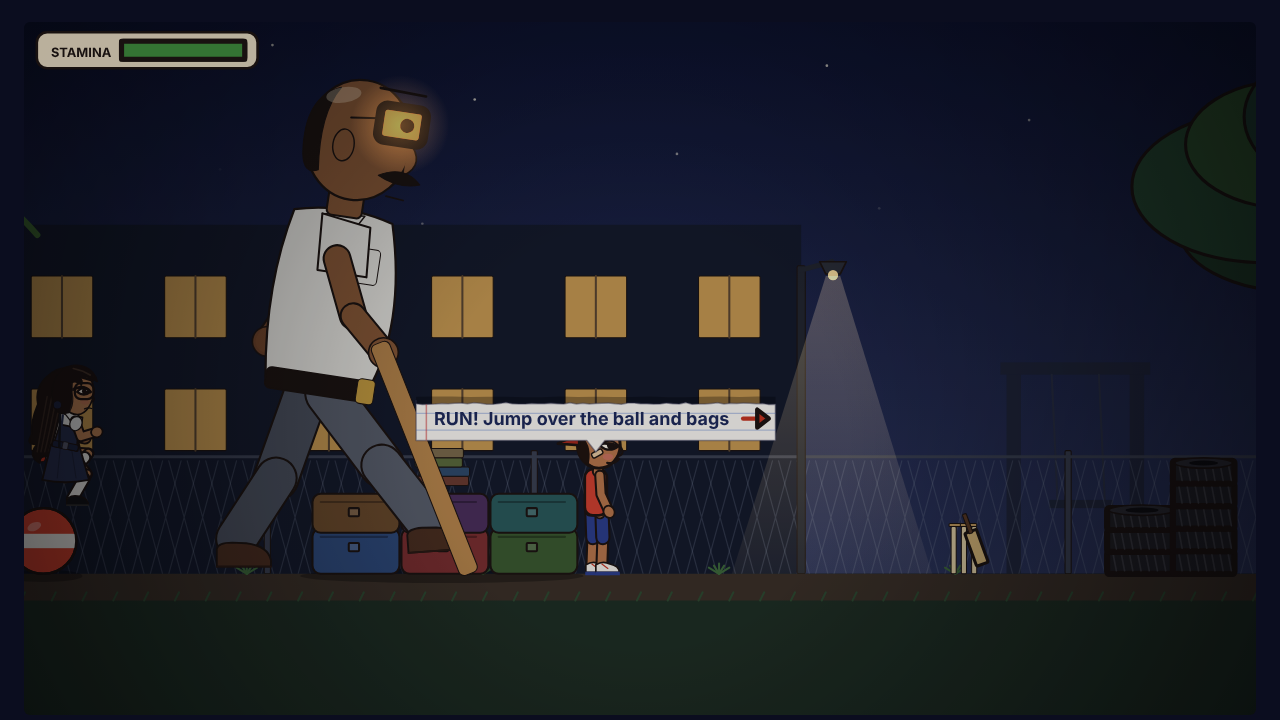
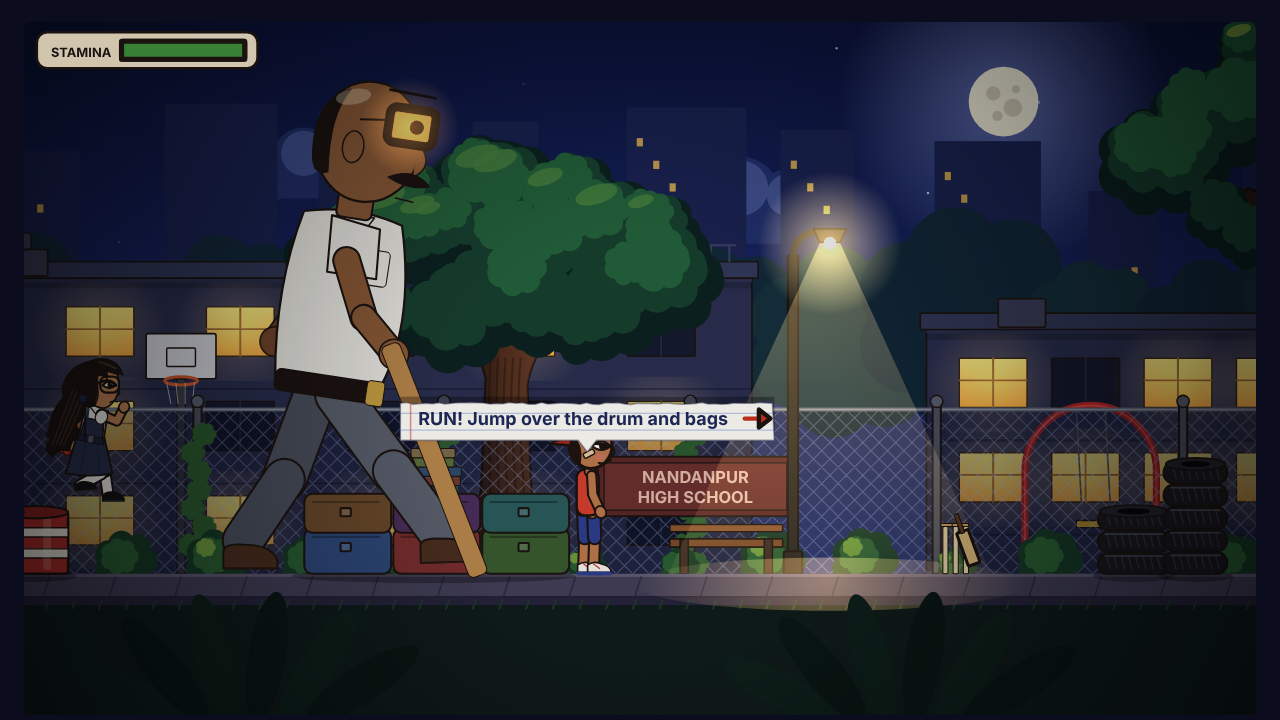
Night schoolyard redrawn from reference; softer interaction glow
- Schoolyard: moonlit sky, lit school blocks, chain-link fence, street
  lamps with light cones, cel-shaded yard tree, hoop, swing, benches
- Football obstacle is now an oil drum; tyres and brick ledge restyled
- Interaction glow is a halo around the object, not a white wash

Claude-Session: https://claude.ai/code/session_011sGuDQJunPbrnJRzfH8xkJ

diff --git a/index.html b/index.html
@@ -653,7 +653,7 @@ function goalNow() {
     if (V.phase === 'court') { const c = V.ch; if (!c || c.end || c.stage === 'catch') return null;
       if (c.stage === 'run2') return c.hwGot ? {bn: 'স্কুলের গেটে দৌড়াও!', en: 'Run to the school gate!', x: CT_GATE, k: ['Run']} : {bn: 'টায়ারে লাফিয়ে উঠে দেয়ালের খাতাটা নাও', en: 'Jump onto the tyres, then the wall: get your copy', x: 2340, k: ['Space']};
       if (c.stage === 'search' || c.stage === 'leave' || c.autoHide) return null;
-      return {bn: 'দৌড়াও! বাক্স-টায়ার লাফিয়ে পার হও', en: 'RUN! Jump over the ball and bags', x: CT_TREE, k: ['Run', 'Space']}; }
+      return {bn: 'দৌড়াও! ড্রাম আর ব্যাগ লাফিয়ে পার হও', en: 'RUN! Jump over the drum and bags', x: CT_TREE, k: ['Run', 'Space']}; }
     if (V.phase === 'stairs') return null;
     return G.shown.jhumpa ? {bn: 'বসে বসে ঝুম্পার পেছনে যাও; জানালায় আলো জ্বললে লুকাও', en: 'Crouch and follow Jhumpa. Hide when a window lights up', x: VER_JSPOTS[VER_JSPOTS.length - 1], k: ['Shift']} : {bn: 'বসে বসে বারান্দা ধরে এগোও', en: 'Crouch and sneak along the verandah', x: VER_JSPOTS[VER_JSPOTS.length - 1], k: ['Shift']};
   }
@@ -770,10 +770,14 @@ const GLOW_SHAPES = {   // the outline of each object, so the object itself glow
 function drawGoalGlow() {   // in world space: the thing he has to use glows softly, in its own shape, until he uses it
   const g = G.goal; if (!g || !g.glow || G.cs || G.dialog || P.hidden) return; const f = GLOW_SHAPES[g.glow]; if (!f) return;
   const p = 0.5 + 0.5 * Math.sin(G.t * 3.2);
+  // (v256) a soft halo AROUND the object only: the object itself keeps its own colours (just a faint warm tint and a soft rim)
   ctx.save(); ctx.globalCompositeOperation = 'lighter';
-  ctx.shadowColor = 'rgba(255,215,110,1)'; ctx.shadowBlur = 26 + 18 * p;   // (v255) brighter
-  ctx.beginPath(); f(); ctx.fillStyle = 'rgba(255,205,115,' + (0.3 + 0.2 * p) + ')'; ctx.fill(); ctx.fill();
-  ctx.shadowBlur = 0; ctx.beginPath(); f(); ctx.fillStyle = 'rgba(255,230,160,' + (0.14 + 0.12 * p) + ')'; ctx.fill(); ctx.lineWidth = 2; ctx.strokeStyle = 'rgba(255,235,170,' + (0.35 + 0.3 * p) + ')'; ctx.stroke();
+  ctx.beginPath(); ctx.rect(-1e5, -1e5, 2e5, 2e5); f(); ctx.clip('evenodd');   // everything except the object's own shape
+  const m = ctx.getTransform(), off = 20000; ctx.shadowColor = 'rgba(255,200,100,' + (0.75 + 0.25 * p) + ')'; ctx.shadowBlur = (18 + 14 * p) * Math.hypot(m.a, m.b); ctx.shadowOffsetX = off * m.a; ctx.shadowOffsetY = off * m.b;
+  ctx.translate(-off, 0); ctx.beginPath(); f(); ctx.fillStyle = '#000'; ctx.fill(); ctx.fill();   // only the blurred shadow lands, shifted back onto the object
+  ctx.restore();
+  ctx.save(); ctx.globalCompositeOperation = 'lighter';
+  ctx.beginPath(); f(); ctx.fillStyle = 'rgba(255,190,100,' + (0.05 + 0.05 * p) + ')'; ctx.fill(); ctx.lineWidth = 2; ctx.strokeStyle = 'rgba(255,215,140,' + (0.3 + 0.25 * p) + ')'; ctx.stroke();
   ctx.restore();
 }
 
@@ -5299,13 +5303,13 @@ const CT_HEDGES = [[1440, 1474]], CT_BUCKET = -9999;   // the low trip-hazard he
 const CT_ROLL = {a: 1120, b: 1400};
 // solid blocks: crates and raised brick ledges. Their tops are surfaces to land on; their sides are walls (jump them!)
 const CT_BLOCKS = [
-  {x0: 530, x1: 594, h: 64, k: 'ball'},                                  // a giant football left in the yard
+  {x0: 530, x1: 594, h: 64, k: 'drum'},                                  // a red-and-white oil drum (v256, from the user's yard reference)
   {x0: 820, x1: 1080, h: 78, k: 'bags', books: 950},                     // a heap of school bags the children dumped to play
   {x0: 1600, x1: 1664, h: 64, k: 'tyres'}, {x0: 1664, x1: 1720, h: 110, k: 'tyres'},   // old tyres they play with, stacked
   {x0: 2126, x1: 2190, h: 64, k: 'tyres'},   // right against the high wall: tyres first, then up onto the wall
   {x0: 2190, x1: 2440, h: 132, k: 'ledge', hw: 2340},
 ];
-const CT_LAMPS = [300, 1300];   // (the gate has its own wall lamp over the name plaque)
+const CT_LAMPS = [300, 1300, 2050];   // (the gate has its own wall lamp over the name plaque)
 const COURT_SURF = [{x0: -400, y0: VF, x1: CW + 400, y1: VF, floor: 1}, ...CT_BLOCKS.map(b => ({x0: b.x0, y0: VF - b.h, x1: b.x1, y1: VF - b.h, floor: 1}))];
 // the ground height under x (for Jhumpa and Mishti, who hop up onto crates and ledges as they run along)
 function ctGround(x) { let h = 0; for (const b of CT_BLOCKS) { if (x > b.x0 - 34 && x < b.x1 + 34) { const e = Math.min(1, Math.min(x - (b.x0 - 34), b.x1 + 34 - x) / 34); h = Math.max(h, b.h * Math.sin(e * Math.PI / 2) + (e < 1 ? Math.sin(e * Math.PI) * 26 : 0)); } } return VF - h; }
@@ -5550,37 +5554,158 @@ function ctGateArea(op) {
   box(wl, VF - 8, G0 - 46 - wl, 8, '#6A5E50', 1.6, 1); box(G0 + 206, VF - 8, 494, 8, '#6A5E50', 1.6, 1);
   for (let k = 0; k < 16; k++) { const lx = G0 - 520 + ((k * 89) % 1000), ly = VF + 4 + (k % 3) * 6; ctx.save(); ctx.translate(lx, ly); ctx.rotate(k * 0.9); ctx.beginPath(); ctx.ellipse(0, 0, 6, 2.6, 0, 0, 7); ctx.fillStyle = ['#6A5A2A', '#7A4A22', '#5A6A2A'][k % 3]; ctx.fill(); ctx.restore(); }
 }
-function drawCourt() {
-  const V = G.ver, C = V.ch, v = akView();
-  // night sky over the school field
-  const sg = ctx.createLinearGradient(0, v.T, 0, VF); sg.addColorStop(0, '#0C1230'); sg.addColorStop(1, '#2A3358'); ctx.fillStyle = sg; ctx.fillRect(v.L, v.T, v.R - v.L, VF - v.T);
-  for (let i = 0; i < 40; i++) { const sx = ((i * 197) % 3400) - 200, sy = 380 + (i * 53) % 260; circ(sx, sy, 1.3, 'rgba(255,250,230,' + (0.4 + 0.4 * Math.sin(G.t * 2 + i)) + ')', 0); }
-  circ(2300, 430, 30, '#F3EBD2', 0); circ(2312, 424, 28, '#2A3358', 0);
-  // the school buildings behind, a few windows still lit
-  ctx.fillStyle = '#141A2A'; ctx.fillRect(-400, 560, 1700, VF - 560); ctx.fillRect(1900, 600, 1300, VF - 600);
-  for (let x = -360; x < 1300; x += 130) for (const yy of [610, 720]) { const lit = ((x * 7 + yy) % 5) === 0; box(x, yy, 60, 60, lit ? '#C89A50' : '#2A2618', 1.4, 1); if (lit) { line(x + 30, yy, x + 30, yy + 60, '#5A4630', 2); } }
-  for (let x = 1960; x < 3100; x += 150) { const lit = (x % 4) === 0; box(x, 650, 64, 56, lit ? '#C89A50' : '#2A2618', 1.4, 1); }
-  // a small Shaheed Minar and the flag pole
-  ctx.fillStyle = '#20263A'; ctx.fillRect(1500, 700, 14, 200); ctx.fillRect(1620, 700, 14, 200); ctx.fillRect(1494, 694, 146, 12); line(1544, 706, 1546 + Math.sin(G.t * 1.2) * 4, 830, '#2A3044', 2); line(1590, 706, 1592 + Math.sin(G.t * 1.2) * 4, 830, '#2A3044', 2); ctx.fillRect(1538 + Math.sin(G.t * 1.2) * 4, 828, 62, 8);   // a swing in the dark yard
-  line(2200, 560, 2200, VF, '#2A2E3A', 4); box(2202, 560, 70, 44, '#1E5A3A', 1.4, 1); circ(2232, 582, 12, '#B83A2A', 0);
-  // background trees (different kinds and colours): a krishnachura in bloom, a coconut palm
+// ---- (v256) the schoolyard, redrawn from the user's night reference: a deep blue sky with soft clouds and a full moon, flat-roofed
+//      school blocks with warm lit windows, far trees and town blocks, a tall chain-link fence with creepers, curved street lamps with
+//      light cones, big cel-shaded trees with lamp-lit trunks, a basketball hoop, a red swing, benches, bins, and a paved footpath
+function ydR(n) { const q = Math.sin(n * 127.1 + 311.7) * 43758.5453; return q - Math.floor(q); }
+function ydBlob(x, y, r, col) {   // a scalloped leaf clump
+  ctx.fillStyle = col; ctx.beginPath(); ctx.moveTo(x + r * 0.72, y); ctx.arc(x, y, r * 0.72, 0, 7);
+  for (let k = 0; k < 7; k++) { const a = k * 0.8976, px = x + Math.cos(a) * r * 0.6, py = y + Math.sin(a) * r * 0.55; ctx.moveTo(px + r * 0.42, py); ctx.arc(px, py, r * 0.42, 0, 7); }
+  ctx.fill(); }
+function ydCanopy(cx, cy, rx, ry, seed, lit) {
+  const pts = []; for (let i = 0; i < 44; i++) { const a = ydR(seed + i) * 6.283, d = Math.sqrt(ydR(seed + i + 50)); pts.push([cx + Math.cos(a) * rx * d, cy + Math.sin(a) * ry * d, 24 + ydR(seed + i + 90) * 22]); }
+  pts.sort((p, q) => p[1] - q[1]);
+  for (const [x, y, r] of pts) ydBlob(x, y + 10, r * 1.3, '#0C2220');
+  for (const [x, y, r] of pts) ydBlob(x - 3, y, r, '#17402E');
+  for (const [x, y, r] of pts) if (y < cy + ry * 0.4) ydBlob(x - 8, y - 9, r * 0.72, '#24613A');
+  for (const [x, y, r] of pts) if (y < cy - ry * 0.2 && ydR(x + y) > 0.4) { ctx.beginPath(); ctx.ellipse(x - 10, y - r * 0.55, r * 0.5, r * 0.22, -0.3, 0, 7); ctx.fillStyle = lit ? 'rgba(150,186,74,.85)' : 'rgba(70,128,62,.85)'; ctx.fill(); }   // moonlit leaf tops
+}
+function ydTrunk(x, y0, w, lit) {   // a thick trunk with flared roots and two big limbs into the canopy
+  ctx.beginPath(); ctx.moveTo(x - w * 1.25, VF + 2); ctx.quadraticCurveTo(x - w * 0.55, VF - 24, x - w * 0.5, VF - 100);
+  ctx.lineTo(x - w * 0.42, y0 + 50); ctx.quadraticCurveTo(x - w * 0.6, y0 + 8, x - w * 2.3, y0 - 60); ctx.lineTo(x - w * 2.0, y0 - 76);
+  ctx.quadraticCurveTo(x - w * 0.6, y0 - 20, x - w * 0.18, y0 - 90); ctx.lineTo(x + w * 0.22, y0 - 90);
+  ctx.quadraticCurveTo(x + w * 0.5, y0 - 26, x + w * 2.1, y0 - 84); ctx.lineTo(x + w * 2.35, y0 - 66); ctx.quadraticCurveTo(x + w * 0.62, y0 + 6, x + w * 0.46, y0 + 56);
+  ctx.lineTo(x + w * 0.52, VF - 100); ctx.quadraticCurveTo(x + w * 0.58, VF - 24, x + w * 1.3, VF + 2); ctx.closePath();
+  fs('#3E261A', 2.4);
+  ctx.save(); ctx.clip();
+  const g = ctx.createLinearGradient(x - w * 0.6, 0, x + w * 0.7, 0); g.addColorStop(0, 'rgba(0,0,0,.3)'); g.addColorStop(0.45, 'rgba(120,64,34,.35)'); g.addColorStop(1, lit ? 'rgba(236,140,62,.8)' : 'rgba(150,90,54,.45)');
+  ctx.fillStyle = g; ctx.fillRect(x - w * 3, y0 - 100, w * 6, VF - y0 + 110);
+  for (let k = -2; k <= 2; k++) { ctx.beginPath(); ctx.moveTo(x + k * w * 0.17, VF - 6); ctx.bezierCurveTo(x + k * w * 0.2 + 6, VF - 120, x + k * w * 0.14 - 6, y0 + 120, x + k * w * 0.16, y0 + 30); ctx.strokeStyle = 'rgba(28,14,8,.4)'; ctx.lineWidth = 2; ctx.stroke(); }
+  ctx.restore(); }
+function ydCloud(x, y, s) {
+  ctx.fillStyle = '#22306A'; ctx.beginPath();
+  for (const [dx, dy, r] of [[-1.15, 0.15, 0.5], [-0.45, -0.25, 0.72], [0.4, -0.12, 0.62], [1.05, 0.2, 0.45]]) { ctx.moveTo(x + dx * s + r * s, y + dy * s); ctx.arc(x + dx * s, y + dy * s, r * s, 0, 7); }
+  ctx.rect(x - 1.5 * s, y + 0.1 * s, 3 * s, 0.5 * s); ctx.fill();
+  ctx.fillStyle = 'rgba(120,140,210,.35)'; ctx.beginPath(); ctx.moveTo(x - 0.45 * s + 0.5 * s, y - 0.4 * s); ctx.arc(x - 0.45 * s, y - 0.4 * s, 0.5 * s, 0, 7); ctx.moveTo(x + 0.4 * s + 0.38 * s, y - 0.28 * s); ctx.arc(x + 0.4 * s, y - 0.28 * s, 0.38 * s, 0, 7); ctx.fill(); }
+function ydWin(x, y, w, h, lit) {
+  if (lit) { const g = ctx.createLinearGradient(0, y, 0, y + h); g.addColorStop(0, '#FFD878'); g.addColorStop(1, '#E09A3A'); box(x, y, w, h, g, 1, 1.4);
+    line(x + w / 2, y, x + w / 2, y + h, '#7A5428', 2); line(x, y + h * 0.45, x + w, y + h * 0.45, '#7A5428', 1.6);
+    ctx.save(); ctx.globalCompositeOperation = 'lighter'; const r = ctx.createRadialGradient(x + w / 2, y + h / 2, 2, x + w / 2, y + h / 2, w); r.addColorStop(0, 'rgba(255,190,90,.22)'); r.addColorStop(1, 'rgba(255,190,90,0)'); ctx.fillStyle = r; ctx.fillRect(x - w / 2, y - h / 2, w * 2, h * 2); ctx.restore(); }
+  else { box(x, y, w, h, '#161A2E', 1, 1.4); line(x + w / 2, y, x + w / 2, y + h, '#262C44', 1.6); } }
+function ydBlock(x0, x1, roof, seed, cols) {   // a flat-roofed school block, its windows half lit
+  box(x0, roof, x1 - x0, VF - roof + 4, '#2A2F4E', 0, 1.6); ctx.fillStyle = '#353B60'; ctx.fillRect(x0, roof, x1 - x0, 6);
+  box(x0 - 6, roof - 14, x1 - x0 + 12, 16, '#323858', 1, 1.6);   // the parapet
+  ctx.fillStyle = 'rgba(0,0,0,.18)'; ctx.fillRect(x0, roof + 2, x1 - x0, 10);
+  const bw = 66, gap = (x1 - x0 - 40) / cols;
+  for (let r = 0; r < 3; r++) for (let c = 0; c < cols; c++) { const y = roof + 30 + r * 92; if (y + 50 > VF) continue; ydWin(x0 + 20 + c * gap + (gap - bw) / 2, y, bw, 48, ydR(seed + r * 17 + c) > 0.42); }
+  for (let r = 1; r < 3; r++) line(x0, roof + 18 + r * 92, x1, roof + 18 + r * 92, 'rgba(10,12,24,.35)', 2); }
+function ydBack(v) {
+  // sky: deep blue, lighter toward the horizon
+  const sg = ctx.createLinearGradient(0, v.T, 0, VF); sg.addColorStop(0, '#0A1238'); sg.addColorStop(0.6, '#1A2766'); sg.addColorStop(1, '#2C3C84'); ctx.fillStyle = sg; ctx.fillRect(v.L, v.T, v.R - v.L, VF - v.T);
+  for (let i = 0; i < 50; i++) { const sx = ((i * 197) % 3600) - 300 + v.cx * 0.4, sy = 330 + (i * 53) % 260; circ(sx, sy, 1.2, 'rgba(255,250,230,' + (0.35 + 0.35 * Math.sin(G.t * 2 + i)) + ')', 0); }
+  // the full moon (drifts slowly with the view) with its halo
+  { const mx = v.cx + 420 - 0.12 * (v.cx - 600), my = 440;
+    ctx.save(); ctx.globalCompositeOperation = 'lighter'; const h = ctx.createRadialGradient(mx, my, 20, mx, my, 160); h.addColorStop(0, 'rgba(200,210,255,.35)'); h.addColorStop(1, 'rgba(200,210,255,0)'); ctx.fillStyle = h; ctx.fillRect(mx - 160, my - 160, 320, 320); ctx.restore();
+    circ(mx, my, 34, '#F4F0DC', 0); for (const [dx, dy, r] of [[-10, -8, 7], [9, 6, 9], [12, -12, 4], [-6, 14, 5]]) circ(mx + dx, my + dy, r, 'rgba(170,165,140,.45)', 0); }
+  for (let i = 0; i < 9; i++) ydCloud(i * 520 - 400 + v.cx * 0.55 + (i % 2) * 90, 470 + (i % 3) * 38, 34 + (i % 3) * 10);
+  // far town blocks and the tree line
+  for (let i = 0; i < 24; i++) { const x = i * 150 - 500 + v.cx * 0.25, h = 90 + ydR(i) * 110, wd = 60 + ydR(i + 9) * 60; ctx.fillStyle = '#1A2350'; ctx.fillRect(x, 640 - h, wd, h + 40);
+    for (let k = 0; k < 3; k++) if (ydR(i * 7 + k) > 0.6) { ctx.fillStyle = '#C8A050'; ctx.fillRect(x + 10 + k * 16, 650 - h + 20 + k * 22, 6, 8); } }
+  for (let i = 0; i < 30; i++) { const x = i * 120 - 500 + v.cx * 0.15; ydBlob(x, 650 + (i % 3) * 12, 70 + (i % 4) * 14, i % 2 ? '#122838' : '#15303A'); }
+  // the school blocks with rooftop tanks and a stair hut
+  ydBlock(-420, 1260, 610, 3, 12);
+  box(60, 560, 170, 50, '#2C3254', 0, 1.6); box(54, 550, 182, 12, '#353B60', 1, 1.6); ydWin(120, 574, 46, 28, 1);
+  box(520, 584, 54, 26, '#3A3E58', 2, 1.6); box(536, 568, 22, 16, '#3A3E58', 2, 1.6);   // water tank
+  for (let x = 860; x < 1240; x += 18) line(x, 596, x, 580, '#3A4060', 2); line(856, 580, 1244, 580, '#3A4060', 2);   // roof railing
+  ydBlock(1430, 1830, 660, 41, 4); box(1500, 632, 46, 28, '#3A3E58', 2, 1.6);
+  ydBlock(1960, 2300, 630, 77, 4);
+  // the flag on its pole
+  line(2200, 560, 2200, 640, '#2A2E3A', 4); box(2202, 560, 70, 44, '#1E5A3A', 1.4, 1); circ(2232, 582, 12, '#B83A2A', 0);
+  // the krishnachura in bloom by the gate
   { const kx = 2470; box(kx - 14, 640, 28, VF - 640, '#3A2C22', 2, 3); for (const [dx, dy, w2] of [[-60, -10, 70], [40, -24, 80], [-10, -50, 90], [70, 20, 60], [-80, 30, 60]]) { ctx.beginPath(); ctx.ellipse(kx + dx, 630 + dy, w2, 34, 0, 0, 7); fs('#2E4A2A', 0); }
     for (let n = 0; n < 34; n++) { const a = n * 2.4, r = 20 + (n * 13) % 80; circ(kx + Math.cos(a) * r * 1.4, 615 + Math.sin(a) * r * 0.5, 6 + (n % 3), n % 2 ? '#C8461E' : '#E0602A', 0); } }
-  { const px = 380; ctx.beginPath(); ctx.moveTo(px - 8, VF); ctx.quadraticCurveTo(px + 20, 760, px + 46, 520); ctx.strokeStyle = '#4A3A2A'; ctx.lineWidth = 11; ctx.stroke();
-    for (let n = 0; n < 7; n++) { const a = -Math.PI + n * 0.52; ctx.beginPath(); ctx.moveTo(px + 46, 520); ctx.quadraticCurveTo(px + 46 + Math.cos(a) * 70, 500 + Math.sin(a) * 30, px + 46 + Math.cos(a) * 130, 540 + Math.abs(Math.cos(a)) * 30); ctx.strokeStyle = '#3E6A30'; ctx.lineWidth = 6; ctx.stroke(); } }
-  // a chain-link fence along the yard
-  ctx.save(); ctx.strokeStyle = 'rgba(120,130,150,.28)'; ctx.lineWidth = 1.2;
-  for (let x = Math.floor(v.L / 18) * 18; x < Math.min(v.R, CT_GATE - 400); x += 18) { ctx.beginPath(); ctx.moveTo(x, 790); ctx.lineTo(x + 30, VF); ctx.moveTo(x + 30, 790); ctx.lineTo(x, VF); ctx.stroke(); }
-  ctx.restore(); for (let x = Math.floor(v.L / 260) * 260; x < Math.min(v.R, CT_GATE - 400); x += 260) box(x - 3, 780, 6, VF - 780, '#3A4050', 1.2, 1); line(Math.max(v.L, -400), 786, Math.min(v.R, CT_GATE - 400), 786, '#3A4050', 3);
+  // background trees inside the yard (behind the fence)
+  ydTrunk(-90, 640, 60, false); ydCanopy(-80, 520, 230, 100, 3, 0);
+  ydTrunk(1020, 660, 46, false); ydCanopy(1020, 580, 170, 80, 7, 0);
+  // a basketball hoop and a red swing in the yard
+  box(700, 690, 8, VF - 690, '#3A3E4A', 1.4, 1); box(670, 666, 68, 44, '#D8DAE0', 2, 1.6); box(690, 680, 28, 18, 'rgba(0,0,0,0)', 1, 1.4); ctx.beginPath(); ctx.ellipse(704, 712, 16, 4, 0, 0, 7); ctx.strokeStyle = '#D0582A'; ctx.lineWidth = 3; ctx.stroke();
+  for (let k = 0; k < 4; k++) line(690 + k * 9, 714, 694 + k * 7, 734, 'rgba(230,230,230,.6)', 1);
+  { const sx = 1590, sw = Math.sin(G.t * 1.3) * 6; ctx.beginPath(); ctx.moveTo(sx - 64, VF); ctx.lineTo(sx - 64, 800); ctx.arc(sx, 800, 64, Math.PI, 0); ctx.lineTo(sx + 64, VF); ctx.strokeStyle = '#B8262A'; ctx.lineWidth = 7; ctx.stroke(); ctx.strokeStyle = '#E04A3A'; ctx.lineWidth = 2; ctx.stroke();
+    line(sx - 14, 740, sx - 14 + sw, 850, '#5A5A60', 1.6); line(sx + 14, 740, sx + 14 + sw, 850, '#5A5A60', 1.6); box(sx - 20 + sw, 848, 40, 7, '#E0B030', 1, 1.4); }
+  // the tall chain-link fence: posts with caps, a top rail, a diamond mesh, creepers
+  const fx1 = Math.min(v.R, CT_GATE - 556), FT = 740;
+  ctx.fillStyle = 'rgba(8,12,30,.28)'; ctx.fillRect(Math.max(v.L, -500), FT, fx1 - Math.max(v.L, -500), VF - FT);
+  ctx.save(); ctx.beginPath(); ctx.rect(Math.max(v.L, -500), FT, fx1 - Math.max(v.L, -500), VF - FT); ctx.clip();
+  ctx.strokeStyle = 'rgba(150,165,205,.34)'; ctx.lineWidth = 1.2; ctx.beginPath();
+  for (let x = Math.floor(v.L / 16) * 16 - 200; x < fx1 + 200; x += 16) { ctx.moveTo(x, FT); ctx.lineTo(x + 160, VF); ctx.moveTo(x + 160, FT); ctx.lineTo(x, VF); }
+  ctx.stroke(); ctx.restore();
+  line(Math.max(v.L, -500), FT, fx1, FT, '#5A6070', 4); line(Math.max(v.L, -500), FT, fx1, FT, '#8A90A0', 1.4);
+  for (let x = Math.floor(v.L / 240) * 240; x < fx1; x += 240) { box(x - 4, FT - 6, 8, VF - FT + 6, '#4A5060', 1.4, 2); circ(x, FT - 8, 6, '#5A6070', 1.4);
+    if (ydR(x) > 0.45) { ctx.strokeStyle = '#2E5A30'; ctx.lineWidth = 2.4; ctx.beginPath(); ctx.moveTo(x, VF); for (let y = VF; y > FT + 10; y -= 14) ctx.lineTo(x + Math.sin(y * 0.2) * 5, y); ctx.stroke(); for (let y = VF - 10; y > FT + 16; y -= 18) ydBlob(x + Math.sin(y * 0.2) * 7, y, 12, y % 36 ? '#2C5A2E' : '#4A8A3A'); } }
+  // the school's name board on the fence
+  { const bx = 1110, by = 786; box(bx, by, 190, 58, '#5A2626', 2, 2); box(bx + 6, by + 6, 178, 46, '#6A302C', 1, 1.2);
+    if (LANG === 'bn') text('নন্দনপুর উচ্চ বিদ্যালয়', bx + 95, by + 36, 19, '#E0B8A8', 700, 'center');
+    else { text('NANDANPUR', bx + 95, by + 26, 16, '#E0B8A8', 700, 'center'); text('HIGH SCHOOL', bx + 95, by + 45, 16, '#E0B8A8', 700, 'center'); } }
+  // bushes and grass along the foot of the fence
+  for (let x = Math.floor(v.L / 90) * 90; x < fx1; x += 90) { const r = 18 + ydR(x) * 18; ydBlob(x + 20, VF - r * 0.4, r, '#173A26'); ydBlob(x + 14, VF - r * 0.55, r * 0.6, '#2A5E32'); if (ydR(x + 5) > 0.5) ydBlob(x + 8, VF - r * 0.8, r * 0.3, '#6E9A3E'); }
+  // benches and a green bin on the footpath
+  for (const bx of [1180, 2000]) { box(bx, VF - 34, 110, 8, '#7A4A2A', 1.4, 1.6); box(bx, VF - 48, 110, 7, '#8A5630', 1.4, 1.6); for (const lx of [bx + 10, bx + 92]) box(lx, VF - 34, 8, 34, '#3A2A20', 1, 1.4); }
+  { const gx = 1790; box(gx - 18, VF - 50, 36, 50, '#2E6A3A', 3, 2); box(gx - 21, VF - 54, 42, 8, '#3A7A44', 2, 1.6); line(gx - 10, VF - 40, gx - 10, VF - 6, 'rgba(0,0,0,.25)', 2); }
+}
+function ydLamp(lx) {   // a tall street lamp with a curved arm and a cone of warm light
+  const top = 590;
+  box(lx - 5, top, 10, VF - top, '#2A2620', 1.6, 2); box(lx - 9, VF - 22, 18, 22, '#2A2620', 1.6, 2);
+  ctx.beginPath(); ctx.moveTo(lx, top + 4); ctx.quadraticCurveTo(lx, top - 26, lx + 34, top - 24); ctx.strokeStyle = '#2A2620'; ctx.lineWidth = 6; ctx.stroke();
+  ctx.beginPath(); ctx.moveTo(lx + 20, top - 26); ctx.lineTo(lx + 52, top - 26); ctx.lineTo(lx + 46, top - 13); ctx.lineTo(lx + 26, top - 13); ctx.closePath(); fs('#3A342C', 1.6); circ(lx + 36, top - 12, 6, '#FFF0B8', 0);
+  ctx.save(); ctx.globalCompositeOperation = 'lighter';
+  const h = ctx.createRadialGradient(lx + 36, top - 12, 3, lx + 36, top - 12, 70); h.addColorStop(0, 'rgba(255,214,130,.75)'); h.addColorStop(1, 'rgba(255,214,130,0)'); ctx.fillStyle = h; ctx.fillRect(lx - 40, top - 90, 160, 160);
+  const g = ctx.createLinearGradient(0, top - 12, 0, VF); g.addColorStop(0, 'rgba(255,206,120,.34)'); g.addColorStop(1, 'rgba(255,206,120,.06)'); ctx.fillStyle = g;
+  ctx.beginPath(); ctx.moveTo(lx + 26, top - 12); ctx.lineTo(lx + 46, top - 12); ctx.lineTo(lx + 196, VF + 6); ctx.lineTo(lx - 124, VF + 6); ctx.closePath(); ctx.fill(); ctx.restore(); }
+function ydGround(v) {   // a paved footpath with a warm-lit edge, a curb and a dark grass verge
+  ctx.fillStyle = '#423F56'; ctx.fillRect(v.L, VF, v.R - v.L, 22); ctx.fillStyle = '#5E5A72'; ctx.fillRect(v.L, VF, v.R - v.L, 3);
+  for (let x = Math.floor(v.L / 64) * 64; x < v.R; x += 64) line(x, VF + 3, x - 6, VF + 22, 'rgba(20,18,30,.45)', 1.4);
+  ctx.fillStyle = '#26243A'; ctx.fillRect(v.L, VF + 22, v.R - v.L, 9); ctx.fillStyle = '#0F1C1A'; ctx.fillRect(v.L, VF + 31, v.R - v.L, 300);
+  for (let x = Math.floor(v.L / 26) * 26; x < v.R; x += 26) line(x, VF + 34, x + 3, VF + 26, '#1E3A2A', 2);
+  ctx.save(); ctx.globalCompositeOperation = 'lighter';
+  for (const lx of CT_LAMPS) { const g = ctx.createRadialGradient(lx + 36, VF + 6, 4, lx + 36, VF + 6, 190); g.addColorStop(0, 'rgba(255,196,110,.42)'); g.addColorStop(1, 'rgba(255,196,110,0)'); ctx.fillStyle = g; ctx.beginPath(); ctx.ellipse(lx + 36, VF + 10, 190, 26, 0, 0, 7); ctx.fill(); }
+  ctx.restore(); }
+function ydDrum(b) {   // a red-and-white striped oil drum
+  const x = b.x0, w = b.x1 - b.x0, top = VF - b.h;
+  ctx.fillStyle = 'rgba(0,0,0,.3)'; ctx.beginPath(); ctx.ellipse(x + w / 2, VF + 2, w / 2 + 8, 6, 0, 0, 7); ctx.fill();
+  box(x, top + 4, w, b.h - 4, '#B02E28', 3, 2.4);
+  for (const f of [0.3, 0.62]) box(x, top + b.h * f, w, b.h * 0.14, '#ECE6DA', 0, 1.4);
+  ctx.fillStyle = 'rgba(255,255,255,.18)'; ctx.fillRect(x + w * 0.62, top + 6, w * 0.12, b.h - 10); ctx.fillStyle = 'rgba(0,0,0,.2)'; ctx.fillRect(x + 3, top + 6, w * 0.14, b.h - 10);
+  ctx.beginPath(); ctx.ellipse(x + w / 2, top + 4, w / 2, 6, 0, 0, 7); fs('#8A2420', 2); circ(x + w * 0.3, top + 4, 3, '#5A1A16', 0); }
+function ydTyres(b) {   // old tyres stacked up, rounded black rubber with a worn tread and a sheen
+  const w2 = b.x1 - b.x0, cx2 = (b.x0 + b.x1) / 2, n = Math.max(1, Math.round(b.h / 22)), th = b.h / n;
+  ctx.fillStyle = 'rgba(0,0,0,.3)'; ctx.beginPath(); ctx.ellipse(cx2, VF + 2, w2 / 2 + 8, 6, 0, 0, 7); ctx.fill();
+  for (let k = 0; k < n; k++) { const y0 = VF - (k + 1) * th; box(b.x0 - 3, y0 + 1, w2 + 6, th - 1, '#1A1A20', th / 2.2, 2);
+    for (let t = b.x0 + 6; t < b.x1 - 2; t += 7) line(t, y0 + 5, t + 3, y0 + th - 5, '#2E2E36', 1.6);
+    line(b.x0 + 4, y0 + 4, b.x1 - 4, y0 + 4, 'rgba(150,150,170,.35)', 1.6); }
+  ctx.beginPath(); ctx.ellipse(cx2, VF - b.h + 3, w2 / 2 + 1, 6, 0, 0, 7); fs('#24242C', 1.6); ctx.beginPath(); ctx.ellipse(cx2, VF - b.h + 3, w2 / 4, 3, 0, 0, 7); ctx.fillStyle = '#08080A'; ctx.fill(); }
+function ydLedge(b) {   // a brick wall with a concrete coping, a taped notice and creepers
+  const top = VF - b.h, w2 = b.x1 - b.x0;
+  box(b.x0, top, w2, b.h, '#6A4842', 1, 2.4);
+  ctx.save(); rr(b.x0, top, w2, b.h, 1); ctx.clip();
+  for (let r = 0, y = top + 4; y < VF; y += 14, r++) { line(b.x0, y, b.x1, y, 'rgba(40,24,22,.45)', 1.2); for (let x = b.x0 + (r % 2 ? 14 : 0); x < b.x1; x += 28) { line(x, y, x, y + 14, 'rgba(40,24,22,.4)', 1.2); if (ydR(x * 1.3 + y) > 0.75) { ctx.fillStyle = 'rgba(140,90,80,.35)'; ctx.fillRect(x + 2, y + 2, 24, 10); } } }
+  const g = ctx.createLinearGradient(b.x0, 0, b.x1, 0); g.addColorStop(0, 'rgba(255,190,110,.18)'); g.addColorStop(1, 'rgba(0,0,0,.25)'); ctx.fillStyle = g; ctx.fillRect(b.x0, top, w2, b.h);
+  ctx.restore();
+  box(b.x0 - 6, top - 8, w2 + 12, 11, '#8A7E78', 1, 2);
+  ctx.save(); ctx.translate(b.x0 + 70, top + 50); ctx.rotate(-0.06); box(-22, -28, 44, 56, '#E2DCCA', 1, 1.4); box(-7, -32, 14, 7, 'rgba(230,220,180,.75)', 0, 0); for (let k = 0; k < 5; k++) line(-15, -16 + k * 9, 15 - (k % 2) * 8, -16 + k * 9, '#8A8478', 1.4); ctx.restore();
+  ctx.strokeStyle = '#2E5A30'; ctx.lineWidth = 2.2; ctx.beginPath(); ctx.moveTo(b.x1 - 30, top - 4); ctx.bezierCurveTo(b.x1 - 50, top + 40, b.x1 - 20, top + 70, b.x1 - 40, top + 110); ctx.stroke();
+  for (let k = 0; k < 7; k++) ydBlob(b.x1 - 34 - Math.sin(k) * 10, top + 4 + k * 15, 9, k % 2 ? '#2C5A2E' : '#4A8A3A');
+  for (let k = 0; k < 3; k++) line(b.x0 + 30 + k * 6, top - 8, b.x0 + 28 + k * 9, top - 20, '#3E6A3A', 2.2); }
+function ydFront() {   // dark foreground leaves along the bottom edge (below the footpath, never over the players)
+  const v = akView();
+  for (let x = Math.floor(v.L / 640) * 640 + 120; x < v.R + 200; x += 640) { for (let k = 0; k < 6; k++) { ctx.save(); ctx.translate(x + k * 26 - 60, VF + 140); ctx.rotate(-1.1 + k * 0.42); ctx.beginPath(); ctx.ellipse(0, -60, 18, 64, 0, 0, 7); ctx.fillStyle = k % 2 ? '#0A1814' : '#0E201A'; ctx.fill(); ctx.restore(); } }
+}
+function drawCourt() {
+  const V = G.ver, C = V.ch, v = akView();
+  ydBack(v);
   const op = C && C.end && C.end.open ? Math.min(1, C.end.open) : 0;
   ctGateArea(op);
-  // lamp posts with warm pools of light
-  for (const lx of CT_LAMPS) { box(lx - 4, 600, 8, VF - 600, '#22262E', 1.6, 1); line(lx, 604, lx + 30, 596, '#22262E', 5); ctx.beginPath(); ctx.moveTo(lx + 18, 596); ctx.lineTo(lx + 44, 596); ctx.lineTo(lx + 38, 608); ctx.lineTo(lx + 24, 608); ctx.closePath(); fs('#2A2E36', 1.6); circ(lx + 31, 609, 5, '#FFE2A0', 0);
-    ctx.save(); ctx.globalCompositeOperation = 'lighter'; const g = ctx.createLinearGradient(0, 610, 0, VF); g.addColorStop(0, 'rgba(255,214,140,.28)'); g.addColorStop(1, 'rgba(255,214,140,.06)'); ctx.fillStyle = g; ctx.beginPath(); ctx.moveTo(lx + 24, 610); ctx.lineTo(lx + 38, 610); ctx.lineTo(lx + 130, VF + 8); ctx.lineTo(lx - 70, VF + 8); ctx.closePath(); ctx.fill(); ctx.restore(); }
-  // the ground: dark grass with a beaten earth path, little weeds
-  ctx.fillStyle = '#1E2E22'; ctx.fillRect(v.L, VF, v.R - v.L, 200); ctx.fillStyle = '#3A3026'; ctx.fillRect(v.L, VF, v.R - v.L, 26);
-  for (let x = Math.floor(v.L / 30) * 30; x < v.R; x += 30) line(x, VF + 26, x + 4, VF + 18, '#2E4A30', 2);
-  for (let x = Math.floor(v.L / 230) * 230 + 70; x < v.R; x += 230) { for (let k = -2; k <= 2; k++) line(x, VF, x + k * 5, VF - 10 - Math.abs(k) * -2, '#3E6A3A', 2); }
+  for (const lx of CT_LAMPS) ydLamp(lx);
+  ydGround(v);
   // hedge and bucket
   for (const [a, b] of CT_HEDGES) {   // cricket stumps with the bails on, and a bat leaning against them
     for (let k = 0; k < 3; k++) box(a + 6 + k * 10, VF - 46, 5, 46, '#E8D6A8', 1.4, 1); box(a + 4, VF - 49, 16, 3, '#C8A060', 1, 1); box(a + 15, VF - 49, 16, 3, '#C8A060', 1, 1);
@@ -5589,21 +5714,17 @@ function drawCourt() {
   // crates and raised brick ledges (with stacks of old books on them, a tuft of grass), and the homework copy glowing on the high one
   for (const b of CT_BLOCKS) {
     const top = VF - b.h, w2 = b.x1 - b.x0;
-    if (b.k === 'ball') {   // a giant red-and-white football, a seam and a patch
+    if (b.k === 'drum') ydDrum(b);
+    else if (b.k === 'ball') {
       const cx2 = (b.x0 + b.x1) / 2, r = b.h / 2; ctx.fillStyle = 'rgba(0,0,0,.3)'; ctx.beginPath(); ctx.ellipse(cx2, VF + 2, r + 6, 6, 0, 0, 7); ctx.fill();
       circ(cx2, VF - r, r, '#D8432C', 2.4); ctx.save(); ctx.beginPath(); ctx.arc(cx2, VF - r, r, 0, 7); ctx.clip(); ctx.fillStyle = '#F2F0E8'; ctx.fillRect(cx2 - r, VF - r - 7, 2 * r, 14); ctx.restore();
       ctx.beginPath(); ctx.arc(cx2, VF - r, r, 0, 7); ink(2.4); ctx.stroke(); ctx.beginPath(); ctx.ellipse(cx2 - 9, VF - r - 14, 7, 4, -0.4, 0, 7); ctx.fillStyle = 'rgba(255,255,255,.35)'; ctx.fill(); }
-    else if (b.k === 'tyres') {   // old tyres stacked up, black rubber with grey treads
-      const cx2 = (b.x0 + b.x1) / 2, n = Math.round(b.h / 22);
-      for (let k = 0; k < n; k++) { const y0 = VF - (k + 1) * (b.h / n); box(b.x0 - 2, y0, w2 + 4, b.h / n, '#202024', 2, 6); for (let t = b.x0 + 4; t < b.x1; t += 8) line(t, y0 + 3, t + 3, y0 + b.h / n - 3, '#3A3A40', 1.6); }
-      ctx.beginPath(); ctx.ellipse(cx2, top + 2, w2 / 2, 5, 0, 0, 7); fs('#2A2A30', 1.6); ctx.beginPath(); ctx.ellipse(cx2, top + 2, w2 / 4, 2.5, 0, 0, 7); ctx.fillStyle = '#0E0E10'; ctx.fill(); }
+    else if (b.k === 'tyres') ydTyres(b);
     else if (b.k === 'bags') {   // a heap of school bags (different colours) — a satchel, backpacks — with a stack of books on top
       ctx.fillStyle = 'rgba(0,0,0,.3)'; ctx.beginPath(); ctx.ellipse((b.x0 + b.x1) / 2, VF + 2, w2 / 2 + 8, 7, 0, 0, 7); ctx.fill();
       const cols = ['#2E4A7A', '#7A2E2E', '#3A5A2E', '#6A4A2A', '#4A2E5A', '#2A5A5A'];
       for (let k = 0; k < 6; k++) { const bx = b.x0 + (k % 3) * (w2 / 3), by = k < 3 ? VF - 44 : VF - b.h; rr(bx + 4, by, w2 / 3 - 2, k < 3 ? 44 : b.h - 40, 8); fs(cols[k], 2); line(bx + 12, by + 8, bx + w2 / 3 - 10, by + 8, 'rgba(0,0,0,.3)', 2); box(bx + w2 / 6 - 4, by + 14, 10, 8, 'rgba(255,255,255,.15)', 1, 2); } }
-    else { box(b.x0, top, w2, b.h, '#4A3A30', 2.4, 1); for (let yy = top + 16; yy < VF; yy += 16) line(b.x0, yy, b.x1, yy, 'rgba(0,0,0,.25)', 1.2); for (let yy = top; yy < VF; yy += 32) for (let xx = b.x0 + ((yy - top) % 64 ? 24 : 0); xx < b.x1; xx += 48) line(xx, yy, xx, yy + 16, 'rgba(0,0,0,.22)', 1.2);
-      box(b.x0 - 6, top - 8, w2 + 12, 10, '#5A4A3C', 2, 1);   // the coping on top
-      for (let k = 0; k < 3; k++) line(b.x0 + 30 + k * 6, top - 8, b.x0 + 28 + k * 9, top - 20, '#3E6A3A', 2.2); }
+    else ydLedge(b);
     if (b.books) for (let k = 0; k < 4; k++) box(b.books - 26 + (k % 2) * 4, top - 8 - (k + 1) * 9, 52 - k * 3, 9, ['#6A3A2E', '#2E4A6A', '#5A6A3A', '#7A6A4A'][k], 1.6, 1);
     if (b.hw && !(C && C.hwGot)) { const hx = b.hw, hy = top - 26 + Math.sin(G.t * 2.5) * 3;
       ctx.save(); ctx.globalCompositeOperation = 'lighter'; const g = ctx.createRadialGradient(hx, hy, 2, hx, hy, 60); g.addColorStop(0, 'rgba(255,220,120,.55)'); g.addColorStop(1, 'rgba(255,220,120,0)'); ctx.fillStyle = g; ctx.fillRect(hx - 60, hy - 60, 120, 120);
@@ -5611,7 +5732,7 @@ function drawCourt() {
       ctx.save(); ctx.translate(hx, hy); ctx.rotate(-0.25); box(-14, -10, 28, 20, '#2E4A7A', 1.8, 2); box(-12, -8, 24, 4, '#ECE6D4', 0, 0); ctx.restore(); }
   }
   // the big mango tree's trunk (its leaves are drawn in front)
-  box(CT_TREE - 34, 560, 68, VF - 560, '#3A2A1E', 2.4, 4); line(CT_TREE - 10, 600, CT_TREE - 14, VF, 'rgba(0,0,0,.25)', 3);
+  ydTrunk(CT_TREE, 600, 78, true);
   if (C && C.slam && !C.slam.hit) { const k = Math.min(1, C.slam.t / 0.85); ctx.fillStyle = 'rgba(0,0,0,' + (0.15 + 0.4 * k) + ')'; ctx.beginPath(); ctx.ellipse(C.slam.x, VF + 4, 20 + 30 * k, 7, 0, 0, 7); ctx.fill(); }
   if (C && C.end && C.end.hw && !C.end.hw.pick) { const h = C.end.hw; h.t += 0.016; const yy = Math.min(VF - 4, h.y + h.t * 60); ctx.save(); ctx.translate(h.x - h.t * 40, yy); ctx.rotate(Math.sin(h.t * 6) * 0.4); box(-12, -9, 24, 18, '#ECE6D4', 1.4, 2); line(-8, -4, 8, -4, '#8A9AB0', 1); line(-8, 1, 6, 1, '#8A9AB0', 1); ctx.restore(); }
   if (C && C.end && C.end.cup && !C.end.cupTaken) { C.end.cup.t += 0.016; memoryCup(C.end.cup.x, Math.min(VF, C.end.cup.y + C.end.cup.t * 160)); }
@@ -5621,8 +5742,9 @@ function drawCourt() {
 }
 function drawCourtFront() {
   const V = G.ver, C = V.ch;
-  if (C && C.hid) { box(CT_TREE - 34, 560, 68, VF - 560, '#3A2A1E', 2.4, 4); }
-  for (let i = 0; i < 11; i++) { const a = i * 0.62; ctx.beginPath(); ctx.ellipse(CT_TREE + Math.cos(a) * 150, 520 + Math.sin(a) * 70, 100 + (i % 3) * 14, 62 + (i % 2) * 12, 0, 0, 7); fs(['#1E3A26', '#24462E', '#2C4F2A', '#203F30'][i % 4], 0); }
+  if (C && C.hid) ydTrunk(CT_TREE, 600, 78, true);
+  ydCanopy(CT_TREE + 30, 470, 290, 120, 11, 1);   // the big yard tree's leaves, lit from the lamp beside it
+  ydFront();
   // Anko Sir, seen from the side, striding after them (he shrinks to a normal man in the ending)
   if (C && C.sx > -2000) {
     let sc = 3.45; if (C.end && C.end.shrink) { C.end.shrink = Math.min(1, C.end.shrink + 0.012); const u = C.end.shrink; sc = 3.45 - 1.75 * u * u * (3 - 2 * u); }   // (v252) giant, but his head always stays on screen

diff --git a/sw.js b/sw.js
@@ -1,3 +1,3 @@
-const C='pupu-1.0.0',F=['./','index.html','manifest.json','icons/icon-192.png','icons/icon-512.png'];
+const C='pupu-1.0.1',F=['./','index.html','manifest.json','icons/icon-192.png','icons/icon-512.png'];
 self.addEventListener('install',e=>e.waitUntil(caches.open(C).then(c=>c.addAll(F))));
 self.addEventListener('fetch',e=>e.respondWith(caches.match(e.request).then(r=>r||fetch(e.request).then(n=>{const k=n.clone();caches.open(C).then(c=>c.put(e.request,k));return n;}).catch(()=>r))));

diff --git a/docs/BUILD_NOTES.md b/docs/BUILD_NOTES.md
@@ -3,7 +3,10 @@
 
 Last updated: 2026-11-10 (v197). Chapter 1 finished and approved. **Chapter 2 Part 1 (the classroom) finished and approved by the user** ("save the game system till now… then move onto next level"). Keep this file in sync as the game grows.
 
-
+- **Story bible (full story, cast, chapters):** 
+- **Art bible (Rongpat Character Bible, Design canvas):** 
+- **Playable build (HTML, PC + phone):**  (always republished to this same link; v139)
+- **Saved full game source:** project file `claude/pupus-world-game-v84.html` (name kept for history; always overwritten with the latest, now v175). Restore from this if the session's files are lost.
 - **Android app:** WebView wrapper APK (package `com.rongpat.nandanpur`, app "Pupu's World", landscape, fullscreen, debug-signed), built with Apktool 2.9.3 + uber-apk-signer 1.3.0; smali MainActivity loads `file:///android_asset/www/index.html`; targetSdkVersion 36. Bump versionCode every rebuild (latest built: v0.118 = code 118, older than the current HTML). In the APK the HTML hides the fullscreen button and skips auto-fullscreen (`location.href` starts with `file:///android_asset`). A standalone shareable HTML was also sent (PupusWorld-v0.117.html). Both are out of date: rebuild when asked.
 - **Plan:** build the whole game part by part, the user plays and gives feedback, fix, keep it one HTML file playable on PC and phone; deploy only when everything is ready. Dialogue = subtitles (Bangla line + English); voice audio maybe later.
 
@@ -347,3 +350,8 @@ Dawn, real world. Pupu opens the door of Dadu's room, shut since Dadu passed. Mo
 - Start menu sub-lines start with a capital: "Begin with the Prologue", "Play any part of the demo", "Press to switch to বাংলা".
 - Objects to use glow brighter (stronger halo, fuller fill and a soft outline in the object's own shape).
 - Courtyard: the odd floating red disc on posts is now a swing in the dark yard.
+
+## v256 (user)
+- **Schoolyard (user's night reference), the gate unchanged:** deep blue sky with soft cel-shaded clouds, a full moon with a halo that drifts slowly with the view, far town blocks and a tree line; flat-roofed school blocks with parapets, a rooftop stair hut, water tanks and a railing, windows half lit warm gold; a tall chain-link fence with capped posts, a top rail and creepers; the school's name board on the fence (English or Bangla with the language); curved street lamps with cones and pools of warm light (a third lamp beside the big tree); the big yard tree rebuilt with a thick flared trunk lit orange on the lamp side and a cel-shaded leafy canopy; leafy trees behind the fence; a basketball hoop, a red arch swing, wooden benches, a green bin, bushes along the fence; a paved footpath with a lit edge, a curb, a dark grass verge and dark foreground leaves.
+- Yard obstacles restyled: the football is now a red-and-white oil drum (goal text "Jump over the drum and bags"), tyres are rounded with tread and sheen, the high ledge is a brick wall with a concrete coping, a taped notice and a creeper.
+- **Interaction glow:** the object is no longer washed white. The glow is a soft halo around its outline only; the object keeps its own colours with a faint warm tint and a soft gold rim.
